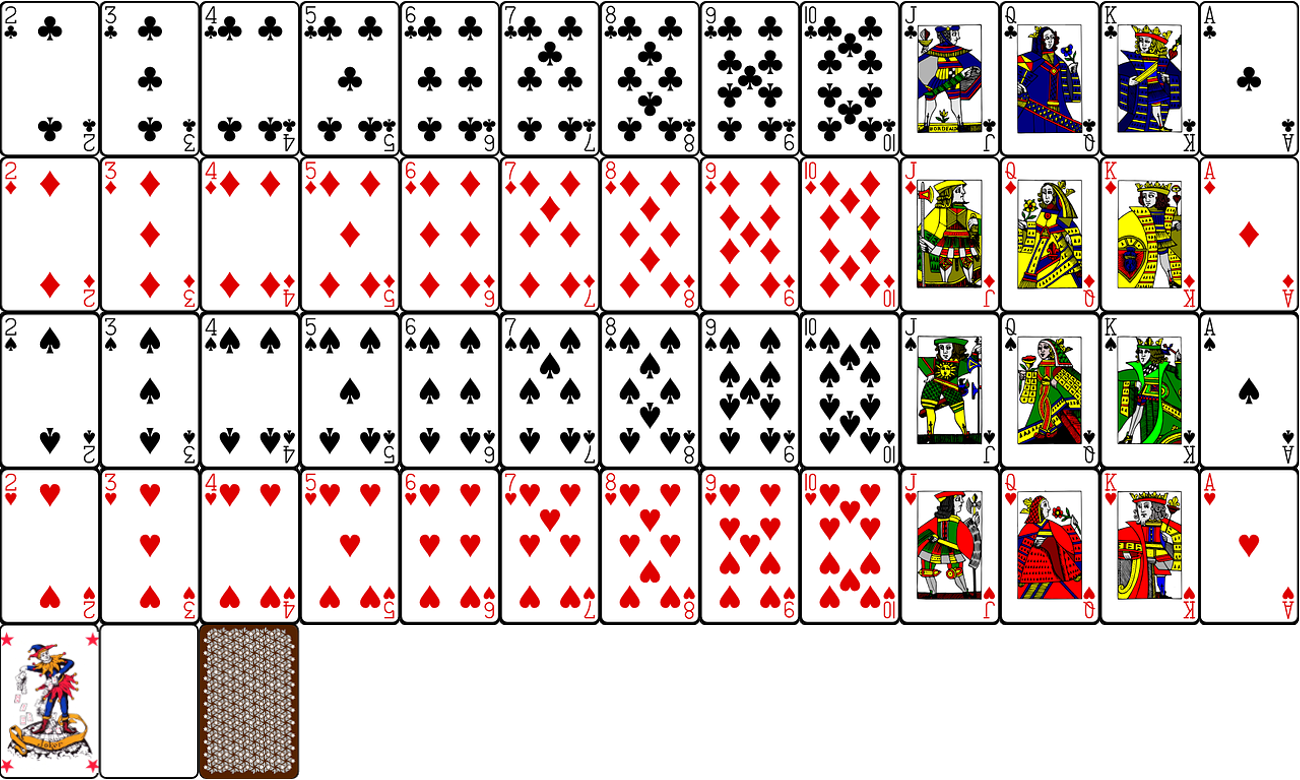
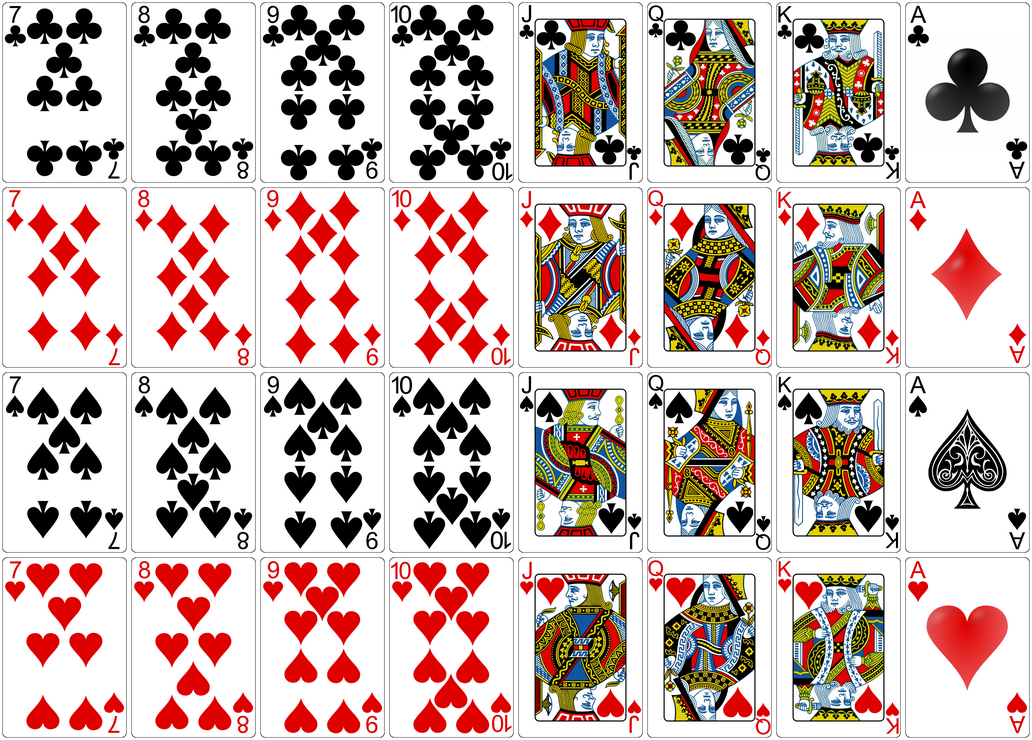
Meilleurs assets + plateau

diff --git a/src/controleurs/PlateauController.java b/src/controleurs/PlateauController.java
@@ -3,6 +3,8 @@ package controleurs;
 import javafx.animation.KeyFrame;
 import javafx.animation.KeyValue;
 import javafx.geometry.Rectangle2D;
+import javafx.scene.paint.Color;
+import javafx.scene.text.Font;
 import javafx.util.Duration;
 import modele.cartes.Carte;
 import javafx.animation.Timeline;
@@ -40,10 +42,10 @@ public class PlateauController extends DefaultController {
                 new KeyFrame(Duration.ZERO, new KeyValue(carte1.scaleYProperty(), 1)),
                 new KeyFrame(Duration.ZERO, new KeyValue(carte2.scaleXProperty(), 1)),
                 new KeyFrame(Duration.ZERO, new KeyValue(carte2.scaleYProperty(), 1)),
-                new KeyFrame(new Duration(120), new KeyValue(carte1.scaleXProperty(), 0)),
-                new KeyFrame(new Duration(120), new KeyValue(carte1.scaleYProperty(), 1.05)),
-                new KeyFrame(new Duration(120), new KeyValue(carte2.scaleXProperty(), 0)),
-                new KeyFrame(new Duration(120), new KeyValue(carte2.scaleYProperty(), 1.05))
+                new KeyFrame(new Duration(100), new KeyValue(carte1.scaleXProperty(), 0)),
+                new KeyFrame(new Duration(100), new KeyValue(carte1.scaleYProperty(), 1.08)),
+                new KeyFrame(new Duration(100), new KeyValue(carte2.scaleXProperty(), 0)),
+                new KeyFrame(new Duration(100), new KeyValue(carte2.scaleYProperty(), 1.08))
         );
         timeline.setAutoReverse(true);
         timeline.setCycleCount(2);
@@ -59,6 +61,7 @@ public class PlateauController extends DefaultController {
     protected void tourSuivant(ActionEvent event) {
 
         if(jeu.tirer()) {
+            timeline.stop();
             timeline.play();
             refreshScene();
 
@@ -73,15 +76,21 @@ public class PlateauController extends DefaultController {
         carte1.setViewport(getCarteCoords(jeu.carte(1)));
         carte2.setViewport(getCarteCoords(jeu.carte(2)));
 
-        resultat.setText((jeu.resultat() > 0 ? "+" : "") + jeu.resultat());
-        score.setText("Votre score : " + jeu.score());
+        if(jeu.resultat() > 0) {
+            resultat.setText("+" + jeu.resultat());
+            resultat.setFill(Color.INDIANRED);
+        } else {
+            resultat.setText(Integer.toString(jeu.resultat()));
+            resultat.setFill(Color.LIMEGREEN);
+        }
 
+        score.setText("Votre score : " + jeu.score());
         toursuivant.setText("Tour suivant (" + jeu.tour() + ")");
     }
 
     private Rectangle2D getCarteCoords(Carte carte) {
         System.out.println(carte);
-        return new Rectangle2D((carte.figure().ordinal() + 5) * 100, carte.categorie().ordinal() * 156, 100, 156);
+        return new Rectangle2D(carte.figure().ordinal() * 129, carte.categorie().ordinal() * 185, 129, 185);
     }
 
     public void demarrer() {
